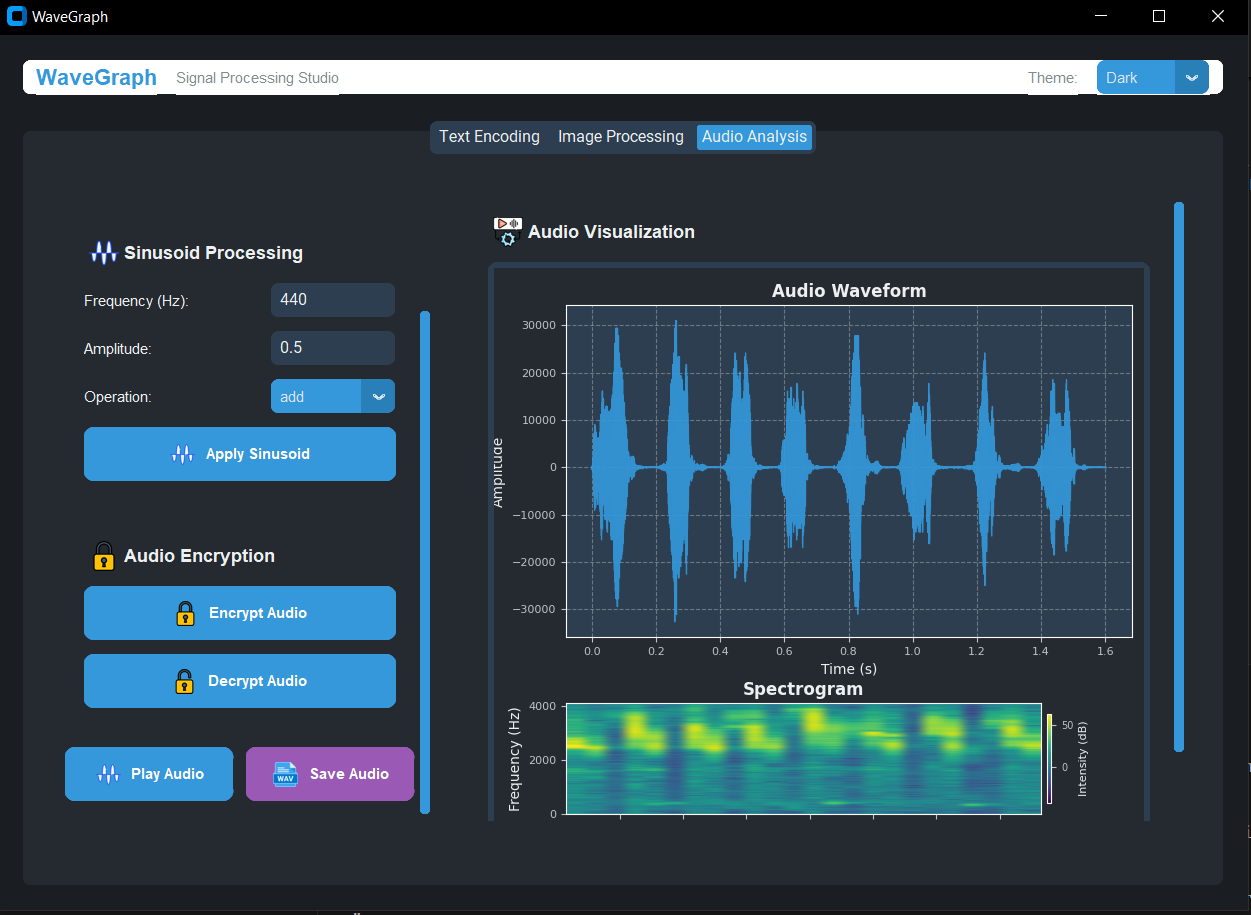
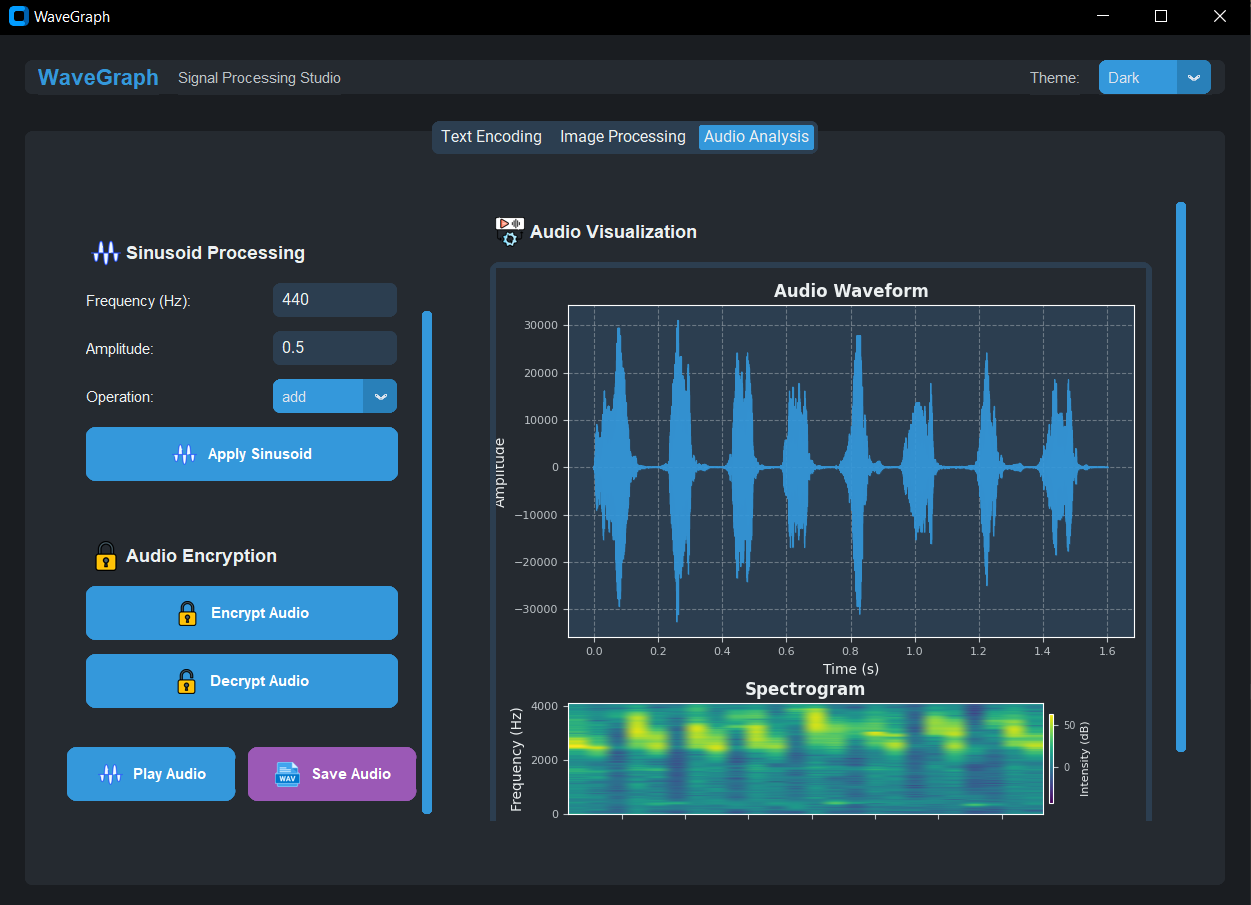
done seharusnya

diff --git a/app.py b/app.py
@@ -6,12 +6,14 @@ import numpy as np
 import wave
 import matplotlib.pyplot as plt
 from matplotlib.backends.backend_tkagg import FigureCanvasTkAgg
+import darkdetect
 
 from pages.firstPage import BasicStringPage
 from pages.secondPage import ImageProcessingPage
 from pages.thirdPage import AudioProcessingPage
 
-ctk.set_appearance_mode("light")
+system_appearance = darkdetect.theme()
+ctk.set_appearance_mode(system_appearance)
 ctk.set_default_color_theme("blue")
 
 class WaveGraphApp(ctk.CTk):
@@ -49,6 +51,8 @@ class WaveGraphApp(ctk.CTk):
         }
 
         self.current_mode = ctk.get_appearance_mode().lower()
+        if self.current_mode not in self.color_schemes:
+            self.current_mode = "light"
         self.colors = self.color_schemes[self.current_mode]
 
 
@@ -407,9 +411,17 @@ class WaveGraphApp(ctk.CTk):
         time = np.linspace(0, len(self.audio_data) / self.audio_params.framerate, num=len(self.audio_data))
         ax.plot(time, self.audio_data, color=self.colors["accent"])
 
-        ax.set_xlabel('Time (s)')
-        ax.set_ylabel('Amplitude')
-        ax.set_title('Audio Waveform')
+        text_color = self.colors["text"]
+
+        ax.set_xlabel('Time (s)', color=text_color)
+        ax.set_ylabel('Amplitude', color=text_color)
+        ax.set_title('Audio Waveform', color=text_color)
+
+        ax.tick_params(axis='x', colors=text_color)
+        ax.tick_params(axis='y', colors=text_color)
+
+        for spine in ax.spines.values():
+            spine.set_edgecolor(text_color)
 
         fig.patch.set_facecolor(self.colors["bg"])
         ax.set_facecolor(self.colors["medium_bg"])
@@ -510,27 +522,27 @@ class WaveGraphApp(ctk.CTk):
                 messagebox.showerror("Error", f"Failed to save audio: {str(e)}")
 
     def create_menu_bar(self):
-        menu_frame = ctk.CTkFrame(self, fg_color=self.colors["card_bg"], height=40)
-        menu_frame.pack(fill="x", padx=20, pady=(20, 0))
+        self.menu_frame = ctk.CTkFrame(self, fg_color=self.colors["card_bg"], height=40)
+        self.menu_frame.pack(fill="x", padx=20, pady=(20, 0))
 
-        title_label = ctk.CTkLabel(
-            menu_frame,
+        self.title_label = ctk.CTkLabel(
+            self.menu_frame,
             text="WaveGraph",
             font=ctk.CTkFont(family="Helvetica", size=18, weight="bold"),
             text_color=self.colors["accent"]
         )
-        title_label.pack(side="left", padx=10)
+        self.title_label.pack(side="left", padx=10)
 
-        subtitle_label = ctk.CTkLabel(
-            menu_frame,
+        self.subtitle_label = ctk.CTkLabel(
+            self.menu_frame,
             text="Signal Processing Studio",
             font=ctk.CTkFont(family="Helvetica", size=12),
             text_color=self.colors["text_secondary"]
         )
-        subtitle_label.pack(side="left", padx=5)
+        self.subtitle_label.pack(side="left", padx=5)
 
         self.appearance_mode_menu = ctk.CTkOptionMenu(
-            menu_frame,
+            self.menu_frame,
             values=["Light", "Dark"],
             command=self.change_appearance_mode,
             font=ctk.CTkFont(family="Helvetica", size=12),
@@ -546,13 +558,13 @@ class WaveGraphApp(ctk.CTk):
 
         self.appearance_mode_menu.set("Light" if self.current_mode == "light" else "Dark")
 
-        theme_label = ctk.CTkLabel(
-            menu_frame,
+        self.theme_label = ctk.CTkLabel(
+            self.menu_frame,
             text="Theme:",
             font=ctk.CTkFont(family="Helvetica", size=12),
             text_color=self.colors["text_secondary"]
         )
-        theme_label.pack(side="right", padx=5)
+        self.theme_label.pack(side="right", padx=5)
 
     def change_appearance_mode(self, new_mode):
         ctk.set_appearance_mode(new_mode)
@@ -561,6 +573,20 @@ class WaveGraphApp(ctk.CTk):
         self.colors = self.color_schemes[self.current_mode]
 
         self.configure(fg_color=self.colors["bg"])
+
+        self.menu_frame.configure(fg_color=self.colors["card_bg"])
+        self.title_label.configure(text_color=self.colors["accent"])
+        self.subtitle_label.configure(text_color=self.colors["text_secondary"])
+        self.theme_label.configure(text_color=self.colors["text_secondary"])
+
+        self.appearance_mode_menu.configure(
+            fg_color=self.colors["accent"],
+            button_color=self.colors["accent_hover"],
+            button_hover_color=self.colors["accent_hover"],
+            dropdown_fg_color=self.colors["card_bg"],
+            dropdown_hover_color=self.colors["medium_bg"],
+            dropdown_text_color=self.colors["text"]
+        )
 
         self.tabview.configure(
             fg_color=self.colors["card_bg"],
@@ -578,6 +604,7 @@ class WaveGraphApp(ctk.CTk):
             widget.destroy()
         for widget in self.tab_audio.winfo_children():
             widget.destroy()
+
         self.basic_page = BasicStringPage(self.tab_basic, self.colors)
         self.image_page = ImageProcessingPage(self.tab_image, self.colors)
         self.audio_page = AudioProcessingPage(self.tab_audio, self.colors)
